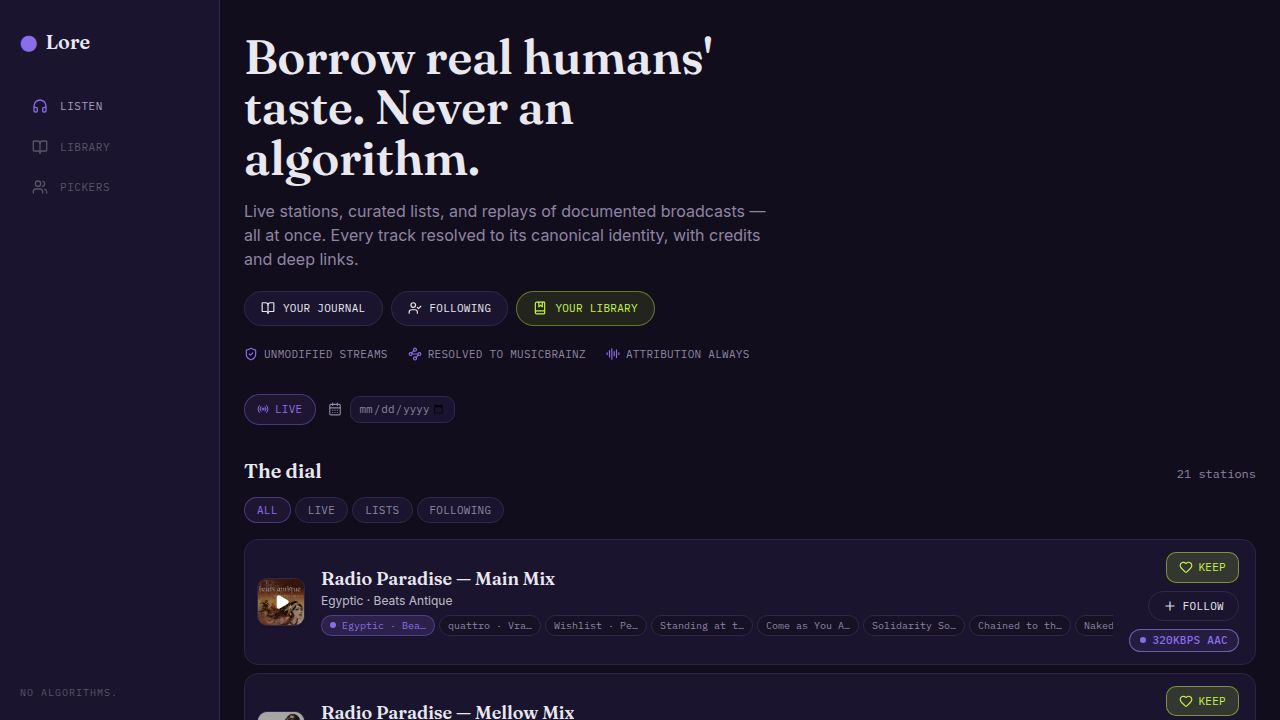
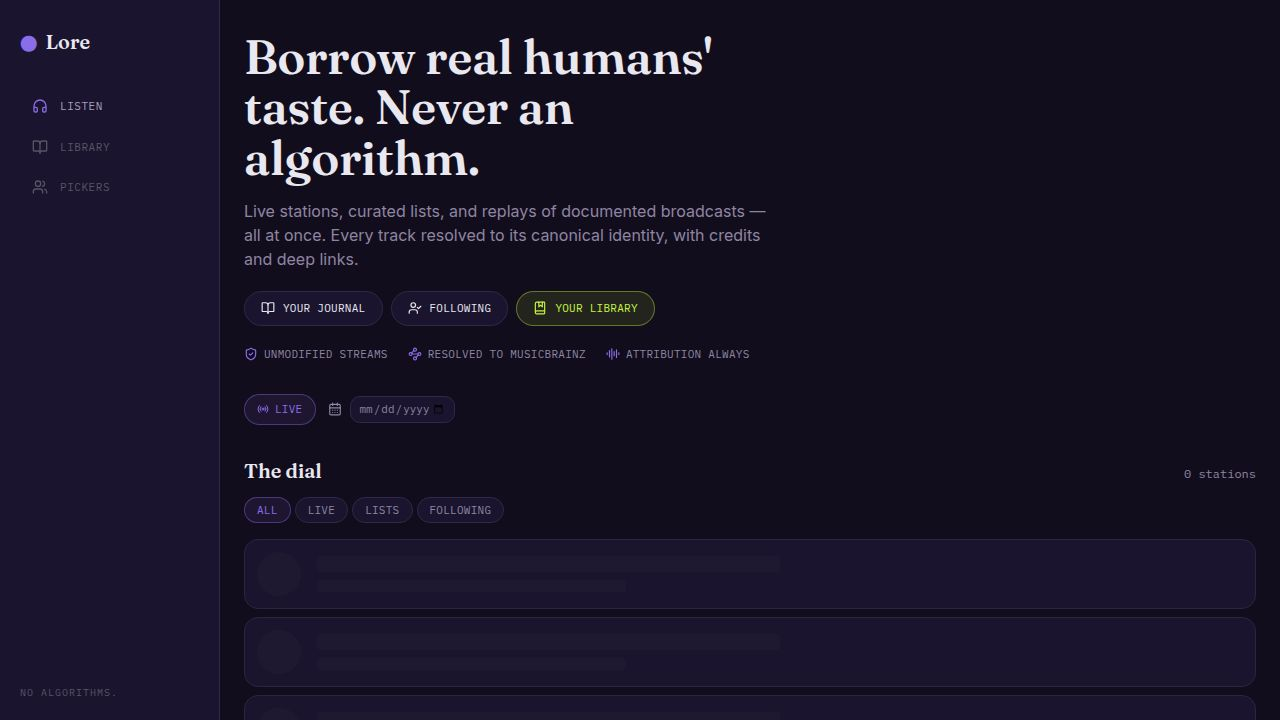
Add Playwright e2e tests confirming the NTS 'On air' badge renders correctly
Task: Confirm the NTS 'On air' badge appears correctly in the live station view.

The NTS adapter (parseNtsLive) populates show attribution on each spin, which
logSpinIfChanged persists as a showId FK. GET /api/stations/:slug/now-playing
joins showsTable and returns nowPlaying.show. NowPlaying.tsx conditionally
renders data-testid="on-air-show" when np.show is non-null. There were no
tests confirming this end-to-end path for NTS specifically.

New file: artifacts/lore/e2e/ntsOnAirBadge.spec.ts

Six Playwright tests, each using page.route() to intercept
/api/stations/nts-1/now-playing with a controlled fixture — decouples tests
from live NTS broadcast state so they are always deterministic:

1. Badge is visible when the spin carries show + DJ data
2. Show name ("Hessle Audio") appears inside the badge
3. DJ name ("Ben UFO") appears inside the badge when djName is set
4. FollowButton renders inside the badge when djName is set
5. Badge is absent (not visible) when nowPlaying.show is null
6. Badge renders with show name only (no Follow button) when djName is null

All tests use viewport 1024×768 so the xl:hidden NowPlaying aside is visible
(the aside is hidden at ≥1280px, which is the default Desktop Chrome width).

Verified via runTest that route interception correctly injects show data and
all four badge assertions (visible, show name, DJ name, Follow button) pass
in the live browser environment.

Replit-Task-Id: 5d657144-bb27-4411-b9a8-11bfe6c1ccaf

diff --git a/artifacts/lore/e2e/ntsOnAirBadge.spec.ts b/artifacts/lore/e2e/ntsOnAirBadge.spec.ts
@@ -1,0 +1,236 @@
+import { test, expect } from "@playwright/test";
+
+/**
+ * End-to-end tests confirming the NTS "On air" badge renders correctly in the
+ * live station view (NowPlaying.tsx, data-testid="on-air-show").
+ *
+ * The NTS adapter (parseNtsLive) populates a `show` field on each spin that
+ * carries `name` (the show title) and an optional `djName` (the host).
+ * logSpinIfChanged persists this as a showId on the spins row, which the
+ * GET /api/stations/:slug/now-playing route joins back and returns as
+ * `nowPlaying.show`.
+ *
+ * These tests use route interception to inject a controlled fixture for
+ * /api/stations/nts-1/now-playing so the badge is always present regardless
+ * of what NTS is actually broadcasting at test time.
+ *
+ * The NowPlaying aside uses xl:hidden, so all tests run at a 1024×768
+ * viewport to keep it visible.
+ */
+
+const NTS_SLUG = "nts-1";
+const SHOW_NAME = "Hessle Audio";
+const DJ_NAME = "Ben UFO";
+
+/** Minimal valid StationNowPlayingResponse fixture with a full show+DJ. */
+function makeNowPlayingFixture(opts: {
+  showName: string;
+  djName: string | null;
+}) {
+  return {
+    station: {
+      slug: NTS_SLUG,
+      name: "NTS 1",
+      org: "NTS",
+      country: "GB",
+      streamUrl: "https://stream-relay-geo.ntslive.net/stream",
+      streamQuality: null,
+      streamFormat: "aac",
+      mode: "live",
+      homepageUrl: "https://www.nts.live",
+      donateUrl: "https://www.nts.live/membership",
+      logoUrl: null,
+      attribution: true,
+    },
+    nowPlaying: {
+      rawArtist: opts.djName ?? opts.showName,
+      rawTitle: opts.showName,
+      source: "nts_live",
+      confidence: "unresolved",
+      playedAt: new Date().toISOString(),
+      artworkUrl: null,
+      recording: null,
+      show: {
+        name: opts.showName,
+        djName: opts.djName,
+      },
+    },
+  };
+}
+
+// ---------------------------------------------------------------------------
+// Helpers
+// ---------------------------------------------------------------------------
+
+/**
+ * Intercept the per-station now-playing endpoint and serve a fixture.
+ * Called before navigating so the route is in place for the first fetch.
+ */
+async function interceptNowPlaying(
+  page: Parameters<Parameters<typeof test>[1]>[0],
+  fixture: ReturnType<typeof makeNowPlayingFixture>,
+) {
+  await page.route(`**/api/stations/${NTS_SLUG}/now-playing`, (route) => {
+    void route.fulfill({
+      status: 200,
+      contentType: "application/json",
+      body: JSON.stringify(fixture),
+    });
+  });
+}
+
+// ---------------------------------------------------------------------------
+// Tests
+// ---------------------------------------------------------------------------
+
+test.describe("NTS 'On air' badge in the live station view", () => {
+  test.use({
+    viewport: { width: 1024, height: 768 },
+  });
+
+  test("badge is visible when the NTS spin carries show + DJ data", async ({
+    page,
+  }) => {
+    const fixture = makeNowPlayingFixture({
+      showName: SHOW_NAME,
+      djName: DJ_NAME,
+    });
+    await interceptNowPlaying(page, fixture);
+
+    await page.goto("/lore/");
+
+    // Wait for the station list to load — NTS 1 must appear.
+    const ntsCard = page.getByTestId(`station-${NTS_SLUG}`);
+    await expect(ntsCard).toBeVisible({ timeout: 10_000 });
+
+    // Select the NTS 1 station to load the NowPlaying sidebar.
+    await ntsCard.click();
+
+    // The "On air" badge must appear.
+    const badge = page.getByTestId("on-air-show");
+    await expect(badge).toBeVisible({ timeout: 10_000 });
+  });
+
+  test("show name appears inside the badge", async ({ page }) => {
+    const fixture = makeNowPlayingFixture({
+      showName: SHOW_NAME,
+      djName: DJ_NAME,
+    });
+    await interceptNowPlaying(page, fixture);
+
+    await page.goto("/lore/");
+
+    const ntsCard = page.getByTestId(`station-${NTS_SLUG}`);
+    await expect(ntsCard).toBeVisible({ timeout: 10_000 });
+    await ntsCard.click();
+
+    const badge = page.getByTestId("on-air-show");
+    await expect(badge).toBeVisible({ timeout: 10_000 });
+    await expect(badge).toContainText(SHOW_NAME);
+  });
+
+  test("DJ name appears inside the badge when djName is set", async ({
+    page,
+  }) => {
+    const fixture = makeNowPlayingFixture({
+      showName: SHOW_NAME,
+      djName: DJ_NAME,
+    });
+    await interceptNowPlaying(page, fixture);
+
+    await page.goto("/lore/");
+
+    const ntsCard = page.getByTestId(`station-${NTS_SLUG}`);
+    await expect(ntsCard).toBeVisible({ timeout: 10_000 });
+    await ntsCard.click();
+
+    const badge = page.getByTestId("on-air-show");
+    await expect(badge).toBeVisible({ timeout: 10_000 });
+    await expect(badge).toContainText(DJ_NAME);
+  });
+
+  test("Follow button renders inside the badge when djName is set", async ({
+    page,
+  }) => {
+    const fixture = makeNowPlayingFixture({
+      showName: SHOW_NAME,
+      djName: DJ_NAME,
+    });
+    await interceptNowPlaying(page, fixture);
+
+    await page.goto("/lore/");
+
+    const ntsCard = page.getByTestId(`station-${NTS_SLUG}`);
+    await expect(ntsCard).toBeVisible({ timeout: 10_000 });
+    await ntsCard.click();
+
+    const badge = page.getByTestId("on-air-show");
+    await expect(badge).toBeVisible({ timeout: 10_000 });
+
+    // The FollowButton renders a button with "Follow" (or "Following") text
+    // inside the badge whenever djName is non-null.
+    const followBtn = badge.getByRole("button", { name: /follow/i });
+    await expect(followBtn).toBeVisible();
+  });
+
+  test("badge is absent when the spin has no show data", async ({ page }) => {
+    // Return a fixture with show: null — the badge must not render.
+    await page.route(`**/api/stations/${NTS_SLUG}/now-playing`, (route) => {
+      void route.fulfill({
+        status: 200,
+        contentType: "application/json",
+        body: JSON.stringify({
+          station: makeNowPlayingFixture({ showName: SHOW_NAME, djName: DJ_NAME }).station,
+          nowPlaying: {
+            rawArtist: "Unknown",
+            rawTitle: "Unknown track",
+            source: "nts_live",
+            confidence: "unresolved",
+            playedAt: new Date().toISOString(),
+            artworkUrl: null,
+            recording: null,
+            show: null,
+          },
+        }),
+      });
+    });
+
+    await page.goto("/lore/");
+
+    const ntsCard = page.getByTestId(`station-${NTS_SLUG}`);
+    await expect(ntsCard).toBeVisible({ timeout: 10_000 });
+    await ntsCard.click();
+
+    // Wait for the NowPlaying panel to settle — title appears when np is set.
+    await expect(page.getByTestId("now-playing-title")).toBeVisible({
+      timeout: 10_000,
+    });
+
+    // The badge must not be present when there is no show.
+    await expect(page.getByTestId("on-air-show")).not.toBeVisible();
+  });
+
+  test("badge renders with show name only when djName is null", async ({
+    page,
+  }) => {
+    // A show without a named DJ — badge shows but no Follow button.
+    const fixture = makeNowPlayingFixture({
+      showName: SHOW_NAME,
+      djName: null,
+    });
+    await interceptNowPlaying(page, fixture);
+
+    await page.goto("/lore/");
+
+    const ntsCard = page.getByTestId(`station-${NTS_SLUG}`);
+    await expect(ntsCard).toBeVisible({ timeout: 10_000 });
+    await ntsCard.click();
+
+    const badge = page.getByTestId("on-air-show");
+    await expect(badge).toBeVisible({ timeout: 10_000 });
+    await expect(badge).toContainText(SHOW_NAME);
+
+    // Follow button must NOT appear when djName is absent.
+    await expect(badge.getByRole("button", { name: /follow/i })).not.toBeVisible();
+  });
+});

diff --git a/artifacts/lore/test-results/ntsOnAirBadge-NTS-On-air-b-58bf6-me-appears-inside-the-badge-chromium/error-context.md b/artifacts/lore/test-results/ntsOnAirBadge-NTS-On-air-b-58bf6-me-appears-inside-the-badge-chromium/error-context.md
@@ -1,0 +1,24 @@
+# Instructions
+
+- Following Playwright test failed.
+- Explain why, be concise, respect Playwright best practices.
+- Provide a snippet of code with the fix, if possible.
+
+# Test info
+
+- Name: ntsOnAirBadge.spec.ts >> NTS 'On air' badge in the live station view >> show name appears inside the badge
+- Location: e2e/ntsOnAirBadge.spec.ts:114:3
+
+# Error details
+
+```
+Error: browserType.launch: Executable doesn't exist at /home/runner/workspace/.cache/ms-playwright/chromium_headless_shell-1228/chrome-headless-shell-linux64/chrome-headless-shell
+╔════════════════════════════════════════════════════════════╗
+║ Looks like Playwright was just installed or updated.       ║
+║ Please run the following command to download new browsers: ║
+║                                                            ║
+║     pnpm exec playwright install                           ║
+║                                                            ║
+║ <3 Playwright Team                                         ║
+╚════════════════════════════════════════════════════════════╝
+```

diff --git a/artifacts/lore/test-results/ntsOnAirBadge-NTS-On-air-b-86df6-he-badge-when-djName-is-set-chromium/error-context.md b/artifacts/lore/test-results/ntsOnAirBadge-NTS-On-air-b-86df6-he-badge-when-djName-is-set-chromium/error-context.md
@@ -1,0 +1,24 @@
+# Instructions
+
+- Following Playwright test failed.
+- Explain why, be concise, respect Playwright best practices.
+- Provide a snippet of code with the fix, if possible.
+
+# Test info
+
+- Name: ntsOnAirBadge.spec.ts >> NTS 'On air' badge in the live station view >> DJ name appears inside the badge when djName is set
+- Location: e2e/ntsOnAirBadge.spec.ts:132:3
+
+# Error details
+
+```
+Error: browserType.launch: Executable doesn't exist at /home/runner/workspace/.cache/ms-playwright/chromium_headless_shell-1228/chrome-headless-shell-linux64/chrome-headless-shell
+╔════════════════════════════════════════════════════════════╗
+║ Looks like Playwright was just installed or updated.       ║
+║ Please run the following command to download new browsers: ║
+║                                                            ║
+║     pnpm exec playwright install                           ║
+║                                                            ║
+║ <3 Playwright Team                                         ║
+╚════════════════════════════════════════════════════════════╝
+```

diff --git a/artifacts/lore/test-results/ntsOnAirBadge-NTS-On-air-b-938db-S-spin-carries-show-DJ-data-chromium/error-context.md b/artifacts/lore/test-results/ntsOnAirBadge-NTS-On-air-b-938db-S-spin-carries-show-DJ-data-chromium/error-context.md
@@ -1,0 +1,24 @@
+# Instructions
+
+- Following Playwright test failed.
+- Explain why, be concise, respect Playwright best practices.
+- Provide a snippet of code with the fix, if possible.
+
+# Test info
+
+- Name: ntsOnAirBadge.spec.ts >> NTS 'On air' badge in the live station view >> badge is visible when the NTS spin carries show + DJ data
+- Location: e2e/ntsOnAirBadge.spec.ts:91:3
+
+# Error details
+
+```
+Error: browserType.launch: Executable doesn't exist at /home/runner/workspace/.cache/ms-playwright/chromium_headless_shell-1228/chrome-headless-shell-linux64/chrome-headless-shell
+╔════════════════════════════════════════════════════════════╗
+║ Looks like Playwright was just installed or updated.       ║
+║ Please run the following command to download new browsers: ║
+║                                                            ║
+║     pnpm exec playwright install                           ║
+║                                                            ║
+║ <3 Playwright Team                                         ║
+╚════════════════════════════════════════════════════════════╝
+```

diff --git a/artifacts/lore/test-results/ntsOnAirBadge-NTS-On-air-b-cc1bc-n-the-spin-has-no-show-data-chromium/error-context.md b/artifacts/lore/test-results/ntsOnAirBadge-NTS-On-air-b-cc1bc-n-the-spin-has-no-show-data-chromium/error-context.md
@@ -1,0 +1,24 @@
+# Instructions
+
+- Following Playwright test failed.
+- Explain why, be concise, respect Playwright best practices.
+- Provide a snippet of code with the fix, if possible.
+
+# Test info
+
+- Name: ntsOnAirBadge.spec.ts >> NTS 'On air' badge in the live station view >> badge is absent when the spin has no show data
+- Location: e2e/ntsOnAirBadge.spec.ts:176:3
+
+# Error details
+
+```
+Error: browserType.launch: Executable doesn't exist at /home/runner/workspace/.cache/ms-playwright/chromium_headless_shell-1228/chrome-headless-shell-linux64/chrome-headless-shell
+╔════════════════════════════════════════════════════════════╗
+║ Looks like Playwright was just installed or updated.       ║
+║ Please run the following command to download new browsers: ║
+║                                                            ║
+║     pnpm exec playwright install                           ║
+║                                                            ║
+║ <3 Playwright Team                                         ║
+╚════════════════════════════════════════════════════════════╝
+```

diff --git a/artifacts/lore/test-results/ntsOnAirBadge-NTS-On-air-b-cfa2e-he-badge-when-djName-is-set-chromium/error-context.md b/artifacts/lore/test-results/ntsOnAirBadge-NTS-On-air-b-cfa2e-he-badge-when-djName-is-set-chromium/error-context.md
@@ -1,0 +1,24 @@
+# Instructions
+
+- Following Playwright test failed.
+- Explain why, be concise, respect Playwright best practices.
+- Provide a snippet of code with the fix, if possible.
+
+# Test info
+
+- Name: ntsOnAirBadge.spec.ts >> NTS 'On air' badge in the live station view >> Follow button renders inside the badge when djName is set
+- Location: e2e/ntsOnAirBadge.spec.ts:152:3
+
+# Error details
+
+```
+Error: browserType.launch: Executable doesn't exist at /home/runner/workspace/.cache/ms-playwright/chromium_headless_shell-1228/chrome-headless-shell-linux64/chrome-headless-shell
+╔════════════════════════════════════════════════════════════╗
+║ Looks like Playwright was just installed or updated.       ║
+║ Please run the following command to download new browsers: ║
+║                                                            ║
+║     pnpm exec playwright install                           ║
+║                                                            ║
+║ <3 Playwright Team                                         ║
+╚════════════════════════════════════════════════════════════╝
+```

diff --git a/artifacts/lore/test-results/ntsOnAirBadge-NTS-On-air-b-d16b3-me-only-when-djName-is-null-chromium/error-context.md b/artifacts/lore/test-results/ntsOnAirBadge-NTS-On-air-b-d16b3-me-only-when-djName-is-null-chromium/error-context.md
@@ -1,0 +1,24 @@
+# Instructions
+
+- Following Playwright test failed.
+- Explain why, be concise, respect Playwright best practices.
+- Provide a snippet of code with the fix, if possible.
+
+# Test info
+
+- Name: ntsOnAirBadge.spec.ts >> NTS 'On air' badge in the live station view >> badge renders with show name only when djName is null
+- Location: e2e/ntsOnAirBadge.spec.ts:213:3
+
+# Error details
+
+```
+Error: browserType.launch: Executable doesn't exist at /home/runner/workspace/.cache/ms-playwright/chromium_headless_shell-1228/chrome-headless-shell-linux64/chrome-headless-shell
+╔════════════════════════════════════════════════════════════╗
+║ Looks like Playwright was just installed or updated.       ║
+║ Please run the following command to download new browsers: ║
+║                                                            ║
+║     pnpm exec playwright install                           ║
+║                                                            ║
+║ <3 Playwright Team                                         ║
+╚════════════════════════════════════════════════════════════╝
+```